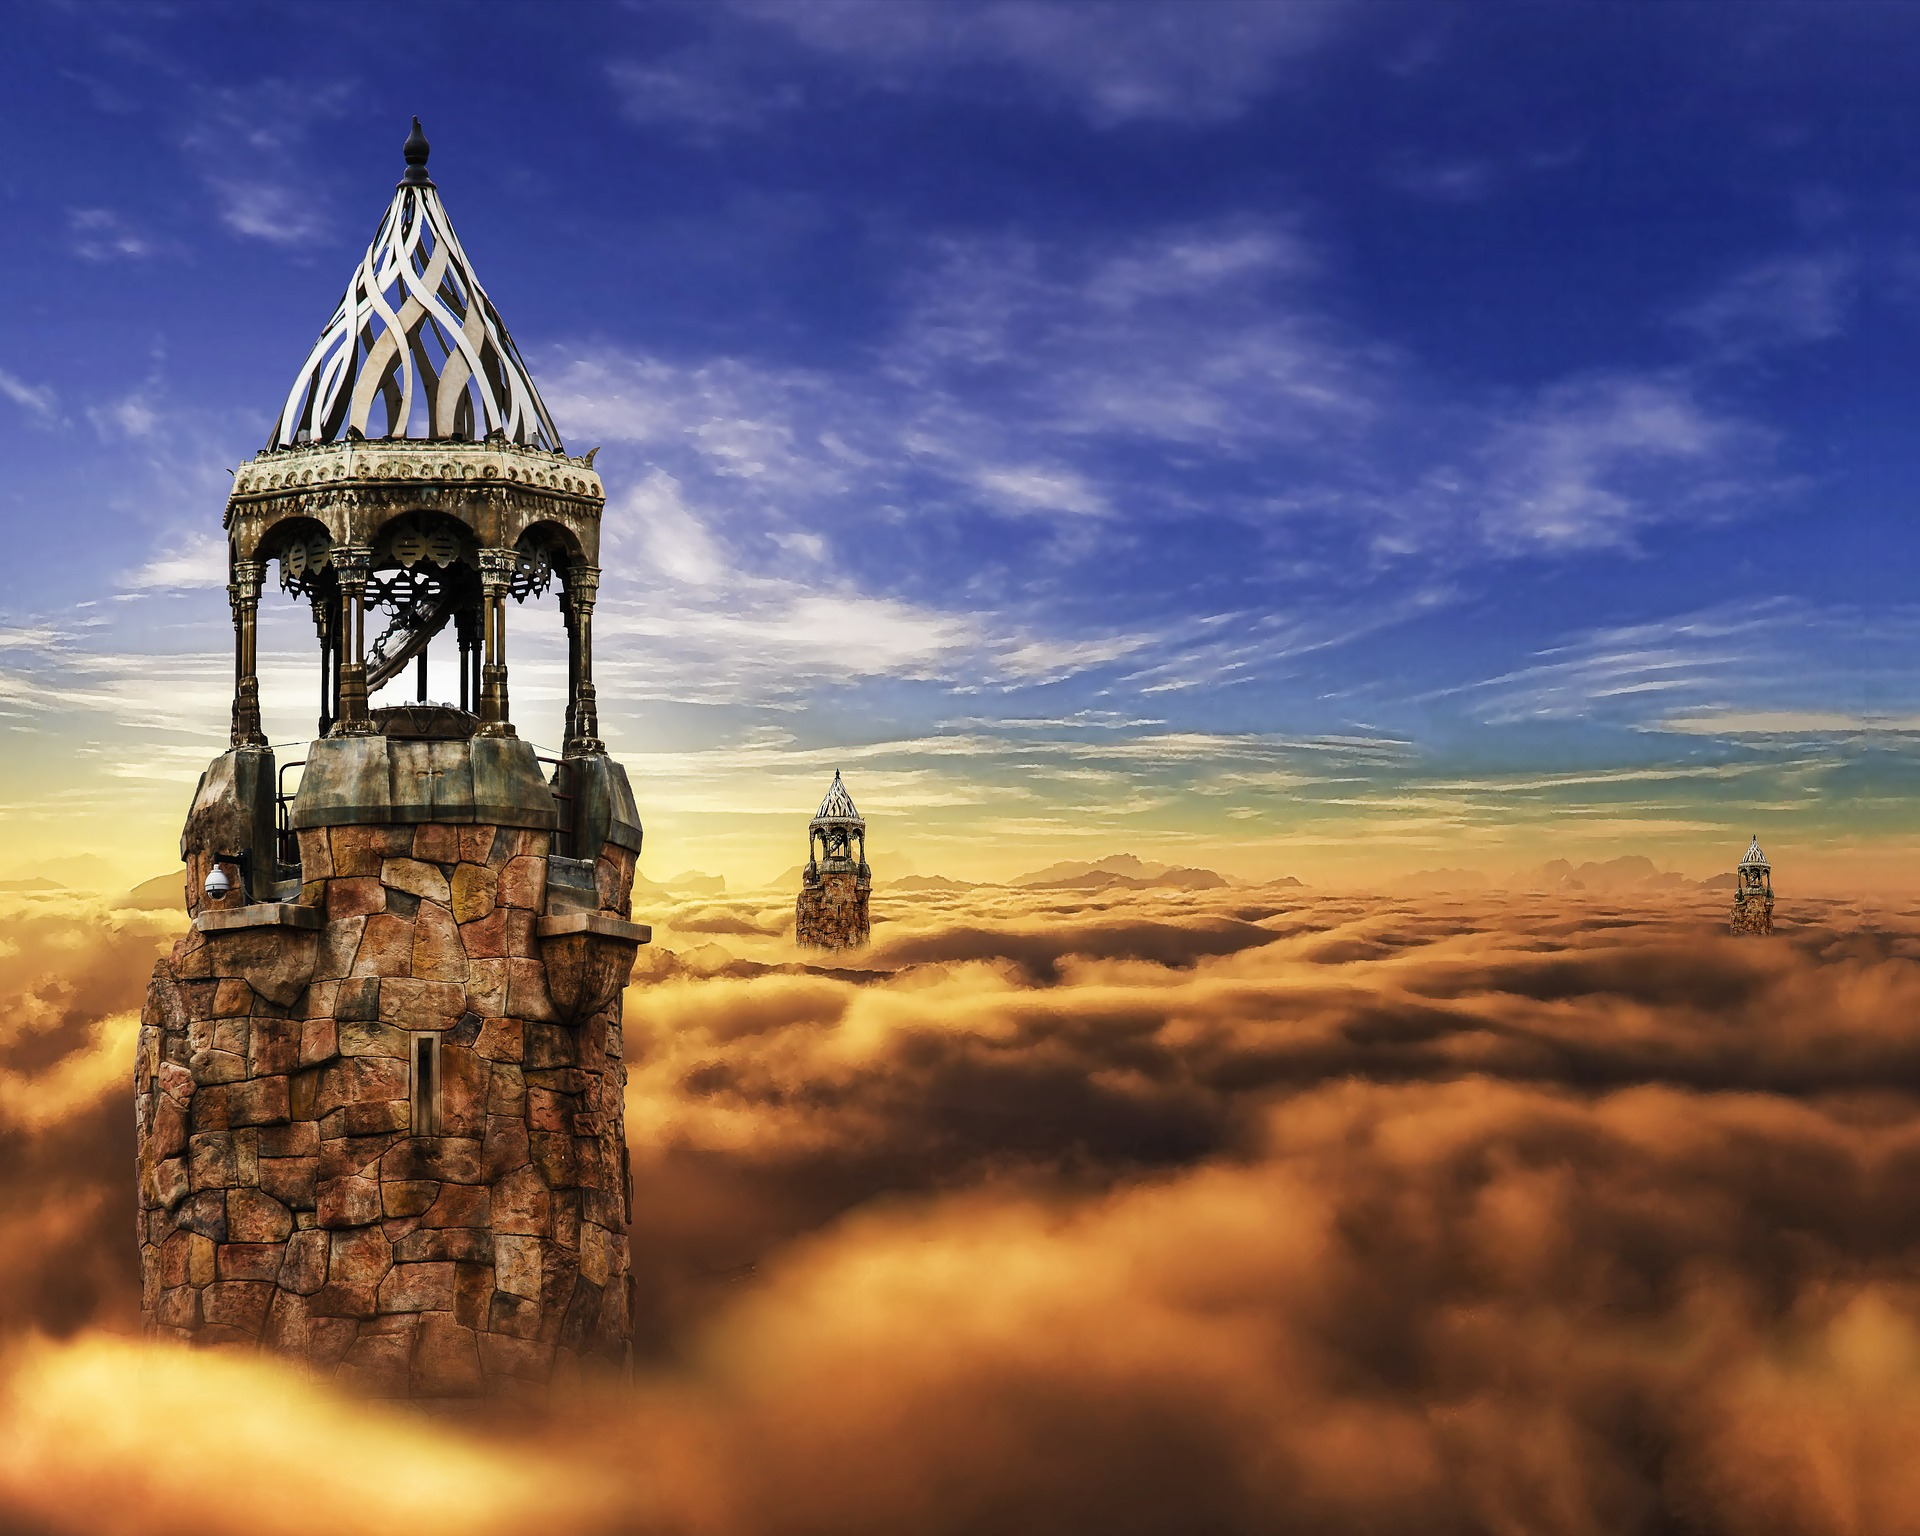
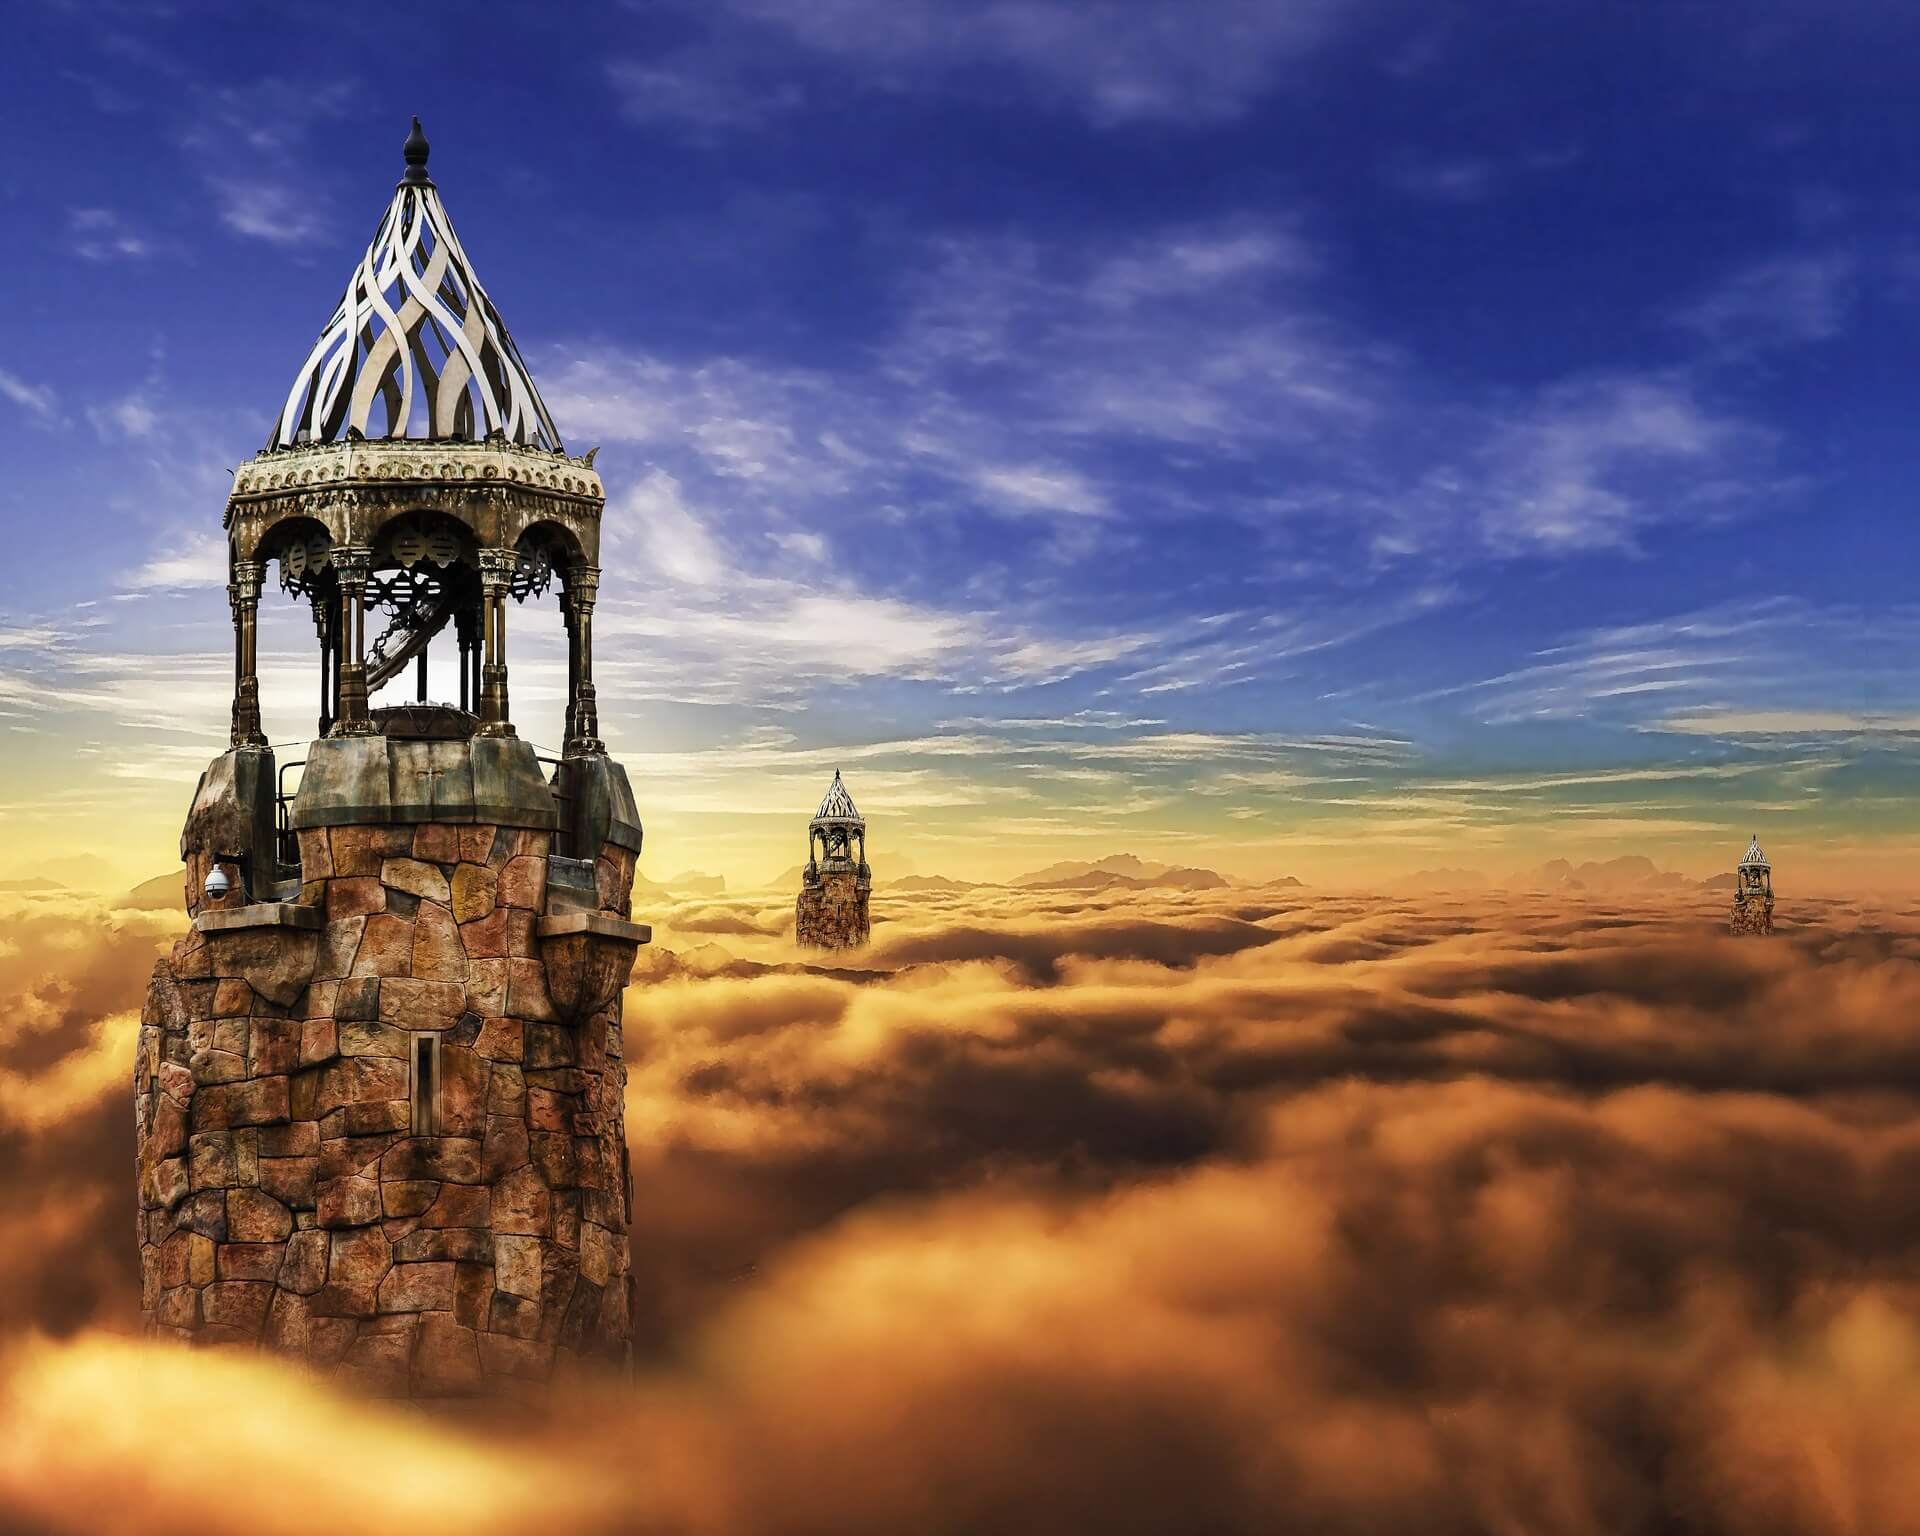
reduced img sizes

diff --git a/index.html b/index.html
@@ -14,7 +14,21 @@
 <body>
     <div id="preloader">
         <h2>Trwa ładowanie strony...</h2>
-        <div class="lds-default"><div></div><div></div><div></div><div></div><div></div><div></div><div></div><div></div><div></div><div></div><div></div><div></div></div></div>
+        <div class="lds-default">
+            <div></div>
+            <div></div>
+            <div></div>
+            <div></div>
+            <div></div>
+            <div></div>
+            <div></div>
+            <div></div>
+            <div></div>
+            <div></div>
+            <div></div>
+            <div></div>
+        </div>
+    </div>
     <div id="mainWrapper">
         <div class="navWrapper">
             <nav id="navbar">

diff --git a/script/dorianScript.js b/script/dorianScript.js
@@ -1,4 +1,4 @@
-// Preloader
+Preloader
 
 const mainWrapper = document.getElementById("mainWrapper");
 const preloader = document.getElementById("preloader");
@@ -12,7 +12,7 @@ window.onload = () => {
 
 // Preload images
 
-let images = ["../images/tree.jpg", "../images/skycastle.jpg", "../images/gamebook.jpg", "../images/book1.jpg"];
+let images = ["../images/tree.jpg", "../images/skycastle.jpg", "../images/book1.jpg"];
 
 images.forEach(imageUrl => {
     let img = new Image();
